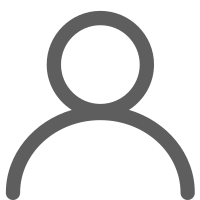
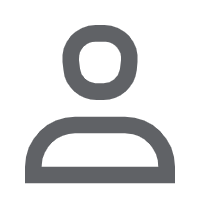
feat: icon更换

diff --git a/src/pages/work/index.tsx b/src/pages/work/index.tsx
@@ -115,10 +115,13 @@ const Work = () => {
               查看
             </AtButton>
           </View>
-          <View className='remark'>
-            备注：
-            <View className='remark-item'>{item.remark}</View>
-          </View>
+          {item.remark ? (
+            <View className='remark'>
+              备注：<View className='remark-item'>{item.remark}</View>
+            </View>
+          ) : (
+            ""
+          )}
         </View>
       </>
     ));

diff --git a/src/pages/workDetail/index.tsx b/src/pages/workDetail/index.tsx
@@ -46,10 +46,10 @@ const WorkDetail = () => {
   const { run, loading } = useRequest(request, {
     manual: true,
     debounceInterval: 500,
-    onSuccess: ({ data }, parmas) => {
+    onSuccess: ({ data }) => {
       if (data) {
-        console.log(data);
         Taro.showToast({ title: "上传成功" });
+        Taro.navigateBack();
       }
     }
   });

diff --git a/src/pages/home/index.less b/src/pages/home/index.less
@@ -1,3 +1,11 @@
-.home{
-  
+.home {
+  height: 100%;
+  display: flex;
+  flex-direction: column;
+  align-items: center;
+  justify-content: center;
+  .dev-name{
+    margin-top: 40px;
+    font-weight: bold;
+  }
 }

diff --git a/src/pages/work/index.less b/src/pages/work/index.less
@@ -90,6 +90,7 @@
     .no-moredate {
       padding: 24px;
       text-align: center;
+      color: #909399;
     }
   }
 }

diff --git a/src/pages/register/index.less b/src/pages/register/index.less
@@ -57,6 +57,7 @@
     .no-moredate{
       padding: 24px;
       text-align: center;
+      color: #909399;
     }
   }
 }
